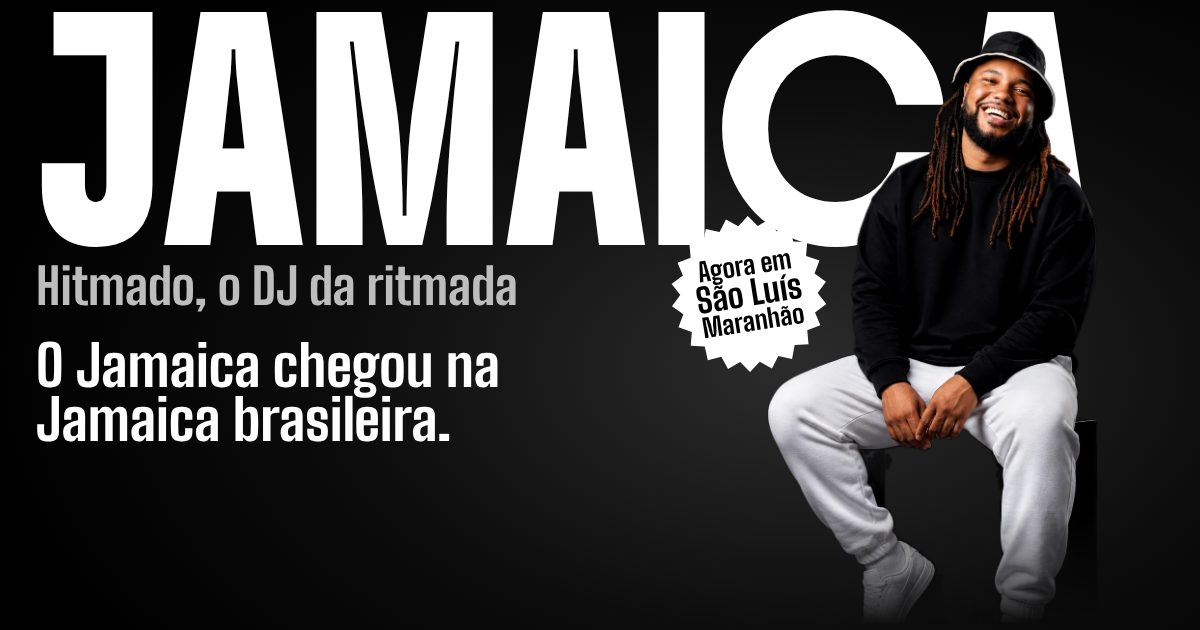
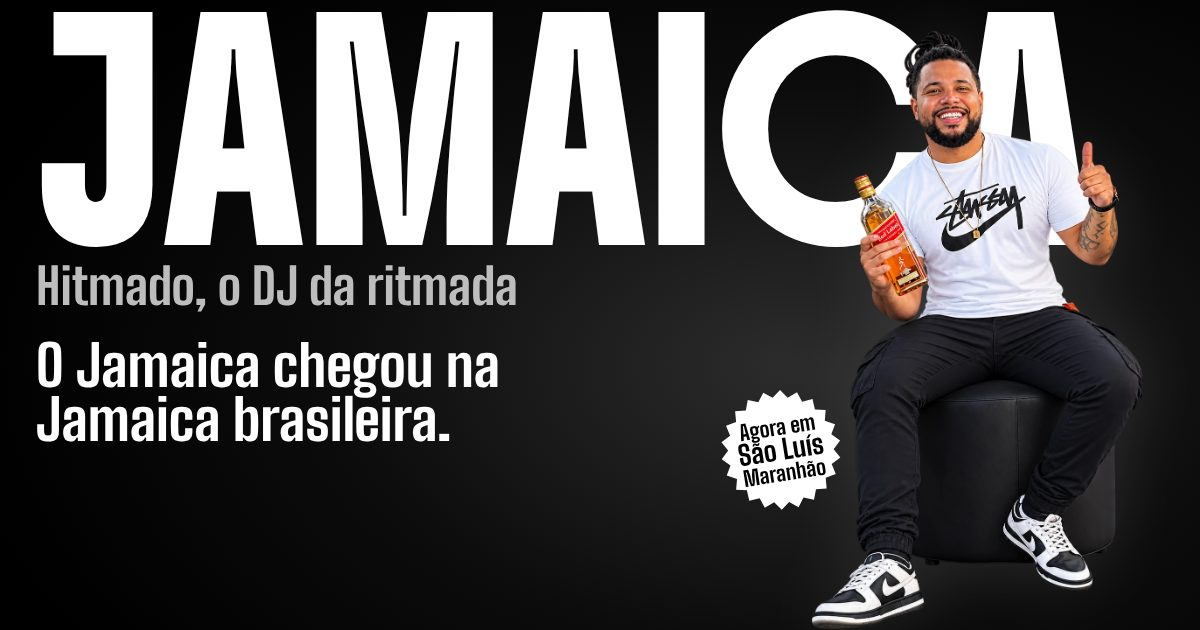
Fotos em cor original, PNG no topo e sem datas de eventos
Claude-Session: https://claude.ai/code/session_012atb45WZL6AtgieGDtAQUj

Changed region(s): [[0.555, 0.0302, 0.9558, 1.0]]

diff --git a/index.html b/index.html
@@ -67,11 +67,11 @@ ul,ol{list-style:none}
 .gancho{font:700 clamp(40px,5cqw,76px)/.96 var(--tit);text-wrap:balance}
 .hero-txt p+p{margin-top:14px;max-width:44ch;font-size:clamp(17px,1.4vw,21px);color:var(--gelo)}
 .acoes{display:flex;flex-wrap:wrap;gap:12px;margin-top:22px}
-.figura-box{position:absolute;z-index:3;right:clamp(10px,9cqw,170px);bottom:0;height:min(90svh,66cqw);aspect-ratio:685/1239;container-type:inline-size}
-.figura{width:100%;height:100%;object-fit:cover;object-position:50% 0;-webkit-mask:linear-gradient(#000 80%,transparent 99%);mask:linear-gradient(#000 80%,transparent 99%)}
-.selo{position:absolute;left:-29%;top:31%;width:47%;aspect-ratio:1;display:grid;place-items:center;transform:rotate(-9deg);color:#000}
+.figura-box{position:absolute;z-index:3;right:clamp(0px,5cqw,110px);bottom:clamp(10px,2svh,24px);height:min(88svh,60cqw);aspect-ratio:761/1372;container-type:inline-size}
+.figura{width:100%;height:100%;object-fit:contain;filter:drop-shadow(0 0 34px rgba(255,255,255,.1))}
+.selo{position:absolute;left:-27%;top:60%;width:36%;aspect-ratio:1;display:grid;place-items:center;transform:rotate(-9deg);color:#000}
 .selo svg{position:absolute;inset:0;width:100%;height:100%;fill:#fff}
-.selo span{position:relative;text-align:center;font:700 7.8cqw/.94 var(--tit)}
+.selo span{position:relative;text-align:center;font:700 6.3cqw/.94 var(--tit)}
 .selo b{display:block;font-size:1.3em;font-weight:700}
 
 /* rota */
@@ -81,22 +81,12 @@ ul,ol{list-style:none}
 
 /* agenda */
 .agenda{padding:clamp(48px,7vw,104px) var(--g);background:#000}
-.falta{margin-top:12px;font-size:clamp(18px,1.6vw,23px);color:var(--nevoa)}
-.falta:empty{display:none}
-.datas{margin-top:clamp(22px,3vw,40px);border-top:1px solid var(--aco)}
-.data{display:grid;grid-template-columns:minmax(150px,3.1fr) 2fr 3fr;gap:8px 24px;align-items:baseline;padding:clamp(14px,1.8vw,22px) 12px;border-bottom:1px solid var(--aco);transition:background .16s,color .16s}
-.data:hover{background:#fff;color:#000}
-.dia{font:700 clamp(54px,8vw,120px)/.9 var(--tit)}
-.hora{font-size:clamp(17px,1.5vw,22px)}
-.casa{font:700 clamp(30px,3.6vw,56px)/1 var(--tit)}
-.casa small{display:block;margin-top:6px;font:400 clamp(16px,1.2vw,18px)/1.3 var(--txt)}
-.vazio{padding:24px 0;font-size:clamp(20px,2vw,28px)}
 .convite{margin-top:clamp(20px,2.6vw,32px);display:flex;flex-wrap:wrap;gap:14px 24px;align-items:center;justify-content:space-between}
 .convite p{max-width:46ch;color:var(--gelo)}
 
 /* pista */
 .pista{position:relative;height:min(100svh,62vw);min-height:520px;overflow:hidden;background:#111}
-.pista img{width:100%;height:100%;object-fit:cover;object-position:50% 30%;filter:grayscale(1) contrast(1.1)}
+.pista img{width:100%;height:100%;object-fit:cover;object-position:50% 30%}
 .pista::after{content:"";position:absolute;inset:0;background:linear-gradient(transparent 45%,rgba(0,0,0,.86) 100%)}
 .pista .h2{position:absolute;z-index:2;left:var(--g);right:var(--g);bottom:clamp(20px,3.4vw,48px);max-width:16ch;text-shadow:0 2px 24px rgba(0,0,0,.6)}
 @supports (animation-timeline:view()){
@@ -111,18 +101,17 @@ ul,ol{list-style:none}
 .trilha{display:flex;gap:clamp(8px,1vw,14px);overflow-x:auto;scroll-snap-type:x mandatory;padding:0 var(--g);scroll-padding:0 var(--g);scrollbar-width:none}
 .trilha::-webkit-scrollbar{display:none}
 .trilha figure{flex:0 0 min(82vw,44vw + 200px);aspect-ratio:1;scroll-snap-align:start;overflow:hidden;background:#111}
-.trilha img{width:100%;height:100%;object-fit:cover;filter:grayscale(1) contrast(1.06);transition:filter .5s}
-.trilha figure.ativa img,.trilha figure:hover img{filter:none}
+.trilha img{width:100%;height:100%;object-fit:cover}
 .setas{display:flex;align-items:center;justify-content:space-between;gap:12px;margin:14px var(--g) 0;color:var(--nevoa);font-size:16px}
 .setas div{display:flex;gap:8px}
 .seta{width:52px;height:52px;display:grid;place-items:center;background:none;color:#fff;border:1px solid var(--aco);cursor:pointer;font:700 26px/1 var(--tit)}
 .seta:hover{background:#fff;color:#000}
 
 /* quem e */
-.quem{position:relative;overflow:hidden;background:#fff;color:#000;padding:clamp(52px,7vw,110px) var(--g) 0;display:grid;grid-template-columns:6fr 5fr;gap:clamp(24px,4vw,64px);align-items:end;container-type:inline-size}
+.quem{position:relative;overflow:hidden;background:#fff;color:#000;padding:clamp(52px,7vw,110px) var(--g);display:grid;grid-template-columns:6fr 5fr;gap:clamp(24px,4vw,64px);align-items:center;container-type:inline-size}
 .fundo-txt{position:absolute;left:var(--g);top:clamp(24px,3vw,44px);font:400 calc((100cqw - 2*var(--g))/5.56)/1.32 Boldonse,Impact,sans-serif;color:var(--gelo);white-space:nowrap;pointer-events:none}
-.quem>div{position:relative;padding-bottom:clamp(44px,6vw,90px)}
-.quem .sentado{position:relative;width:100%;max-width:560px;justify-self:center;height:auto}
+.quem>div{position:relative}
+.quem .sentado{position:relative;width:100%;height:auto}
 .bio{margin-top:20px;max-width:58ch}
 .bio p+p{margin-top:12px}
 .nums{display:grid;grid-template-columns:repeat(3,auto);gap:16px clamp(20px,3vw,44px);margin-top:28px;justify-content:start}
@@ -183,24 +172,18 @@ input:focus,select:focus,textarea:focus{outline:3px solid var(--aco);outline-off
   .hero{min-height:0;background:radial-gradient(120cqw 60% at 50% 42%,#2c2c2c 0,#0c0c0c 60%,#000 100%)}
   .nav ul li:not(:last-child){display:none}
   .mast-nome{transform:scaleY(1.9);transform-origin:50% 0;margin-bottom:1.26em}
-  .figura-box{order:3;position:relative;right:auto;bottom:auto;height:auto;width:min(78cqw,430px);height:calc(min(78cqw,430px)*1.13);min-height:0;aspect-ratio:auto;margin:10px auto 0;overflow:visible}
-  .figura{height:auto;aspect-ratio:685/1239;-webkit-mask:linear-gradient(#000 52%,transparent 64%);mask:linear-gradient(#000 52%,transparent 64%)}
-  .selo{left:-13%;top:50%;width:44%}
+  .figura-box{order:3;position:relative;right:auto;bottom:auto;height:auto;width:min(92cqw,520px);height:auto;min-height:0;aspect-ratio:761/1372;margin:6px auto 12px;overflow:visible}
+  .selo{left:-3%;top:1%;width:32%}
   .hero-txt{order:4;max-width:none;margin-top:-6px;padding-bottom:34px}
   .gancho{font-size:clamp(44px,12.4cqw,72px)}
   .rota{font-size:clamp(23px,7vw,60px);gap:10px}
   .linha svg{width:26px;padding:0 5px}
   .fundo-txt{display:none}
-  .data{grid-template-columns:1fr 1fr;align-items:end;padding-left:0;padding-right:0}
-  .data:hover{background:none;color:inherit}
-  .casa{grid-column:1/-1}
-  .hora{text-align:right}
-  .pista{height:112vw;min-height:0}
+          .pista{height:112vw;min-height:0}
   .pista img{object-position:46% 30%}
   .trilha figure{flex-basis:82vw}
   .quem,.musica-grade,.contrato{grid-template-columns:1fr}
-  .quem .sentado{order:2;max-width:92%}
-  .quem>div{padding-bottom:10px}
+  .quem .sentado{order:-1}
   .nums{grid-template-columns:repeat(3,1fr);gap:12px}
   form{grid-template-columns:1fr}
   .fixa{position:fixed;z-index:20;left:0;right:0;bottom:0;display:block;padding:8px var(--g) calc(8px + env(safe-area-inset-bottom));background:#000;border-top:1px solid var(--aco);transition:transform .2s}
@@ -219,7 +202,7 @@ input:focus,select:focus,textarea:focus{outline:3px solid var(--aco);outline-off
   @keyframes sobe{from{opacity:0;transform:translateY(7%)}to{opacity:1;transform:none}}
   @keyframes carimbo{from{opacity:0;transform:rotate(-9deg) scale(1.7)}to{opacity:1;transform:rotate(-9deg)}}
 }
-@media (prefers-reduced-motion:reduce){html{scroll-behavior:auto}.btn,.fixa,.data,.trilha img{transition:none}}
+@media (prefers-reduced-motion:reduce){html{scroll-behavior:auto}.btn,.fixa{transition:none}}
 </style>
 <script>document.documentElement.classList.add('js')</script>
 </head>
@@ -229,7 +212,6 @@ input:focus,select:focus,textarea:focus{outline:3px solid var(--aco);outline-off
   <nav class="nav" aria-label="Principal">
     <a class="marca" href="#topo">DJ Jamaica</a>
     <ul>
-      <li><a href="#agenda">Agenda</a></li>
       <li><a href="#ao-vivo">Ao vivo</a></li>
       <li><a href="#quem">Quem é</a></li>
       <li><a href="#musica">Música</a></li>
@@ -249,7 +231,7 @@ input:focus,select:focus,textarea:focus{outline:3px solid var(--aco);outline-off
     </div>
   </div>
   <div class="figura-box">
-    <img class="figura" src="assets/hero.webp" width="685" height="1239" alt="DJ Jamaica sorrindo, sentado, de chapéu preto, moletom preto e calça branca" fetchpriority="high">
+    <img class="figura" src="assets/hero.webp" width="761" height="1372" alt="DJ Jamaica sentado, sorrindo e fazendo joinha, de camiseta branca, calça preta e tênis preto e branco" fetchpriority="high">
     <p class="selo"><svg viewBox="0 0 100 100" aria-hidden="true"><polygon points="100.0,50.0 93.6,56.3 98.0,64.1 90.0,68.3 92.1,77.0 83.3,78.8 82.7,87.8 73.8,87.0 70.8,95.5 62.4,92.2 57.1,99.5 50.0,94.0 42.9,99.5 37.6,92.2 29.2,95.5 26.2,87.0 17.3,87.8 16.7,78.8 7.9,77.0 10.0,68.3 2.0,64.1 6.4,56.3 0.0,50.0 6.4,43.7 2.0,35.9 10.0,31.7 7.9,23.0 16.7,21.2 17.3,12.2 26.2,13.0 29.2,4.5 37.6,7.8 42.9,0.5 50.0,6.0 57.1,0.5 62.4,7.8 70.8,4.5 73.8,13.0 82.7,12.2 83.3,21.2 92.1,23.0 90.0,31.7 98.0,35.9 93.6,43.7"/></svg><span>Agora em<b>São Luís</b>Maranhão</span></p>
   </div>
 </header>
@@ -262,23 +244,9 @@ input:focus,select:focus,textarea:focus{outline:3px solid var(--aco);outline-off
 
 <main>
 <section class="agenda" id="agenda">
-  <h2 class="h2">Próximas datas em São Luís</h2>
-  <p class="falta" id="falta"></p>
-  <ol class="datas" id="datas">
-    <li class="data" data-dia="2026-11-05" data-hora="20">
-      <span class="dia">05 nov</span>
-      <span class="hora">Quinta, 20h</span>
-      <span class="casa">Casa da Sogra</span>
-    </li>
-    <li class="data" data-dia="2026-11-06" data-hora="22">
-      <span class="dia">06 nov</span>
-      <span class="hora">Sexta, 22h</span>
-      <span class="casa">Chácara da DZ7<small>Pela primeira vez</small></span>
-    </li>
-  </ol>
-  <p class="vazio" id="vazio" hidden>A agenda de São Luís e do Maranhão está aberta. Reserve a sua data.</p>
+  <h2 class="h2">Agenda aberta em São Luís e no Maranhão</h2>
   <div class="convite">
-    <p>Tem casa, baile ou festa no Maranhão? A próxima linha dessa agenda pode ser a sua.</p>
+    <p>Tem casa, baile ou festa? Reserve a sua data com o DJ da ritmada.</p>
     <a class="btn b1" href="#contratar">Reservar uma data</a>
   </div>
 </section>
@@ -314,7 +282,7 @@ input:focus,select:focus,textarea:focus{outline:3px solid var(--aco);outline-off
       <div><dt>ouvintes mensais no Spotify</dt><dd>+15 mil</dd></div>
     </dl>
   </div>
-  <img class="sentado" loading="lazy" src="assets/sentado.webp" width="1033" height="1386" alt="DJ Jamaica sentado, sorrindo e fazendo joinha, de camiseta branca, calça preta e tênis preto e branco">
+  <img class="sentado" loading="lazy" src="assets/estudio.webp" width="1000" height="1000" alt="DJ Jamaica rindo em estúdio, de chapéu preto, moletom preto e calça branca">
 </section>
 
 <section class="musica" id="musica">
@@ -385,21 +353,7 @@ input:focus,select:focus,textarea:focus{outline:3px solid var(--aco);outline-off
 
 <script>
 (function(){
-  var WHATS='5521986053404', agora=new Date();
-
-  // Agenda: a data some no dia seguinte ao show e o aviso conta quanto falta
-  var linhas=[].slice.call(document.querySelectorAll('#datas [data-dia]')), vivas=[];
-  linhas.forEach(function(l){
-    var fim=new Date(l.dataset.dia+'T12:00:00'); fim.setDate(fim.getDate()+1);
-    if(fim<agora) l.remove(); else vivas.push(l);
-  });
-  if(!vivas.length){document.getElementById('datas').hidden=true;document.getElementById('vazio').hidden=false}
-  else{
-    var d0=new Date(vivas[0].dataset.dia+'T00:00:00'), h0=new Date(agora); h0.setHours(0,0,0,0);
-    var n=Math.round((d0-h0)/864e5), casa=vivas[0].querySelector('.casa').firstChild.textContent.trim();
-    var t=n>1?'Próximo show em '+n+' dias: ':n===1?'Próximo show amanhã: ':n===0?'Hoje tem show: ':'Rolando agora: ';
-    document.getElementById('falta').textContent=t+casa+'.';
-  }
+  var WHATS='5521986053404';
 
   // Luz de palco acompanha o mouse pelo nome
   var hero=document.getElementById('heroBox'), luz=document.getElementById('luz');
